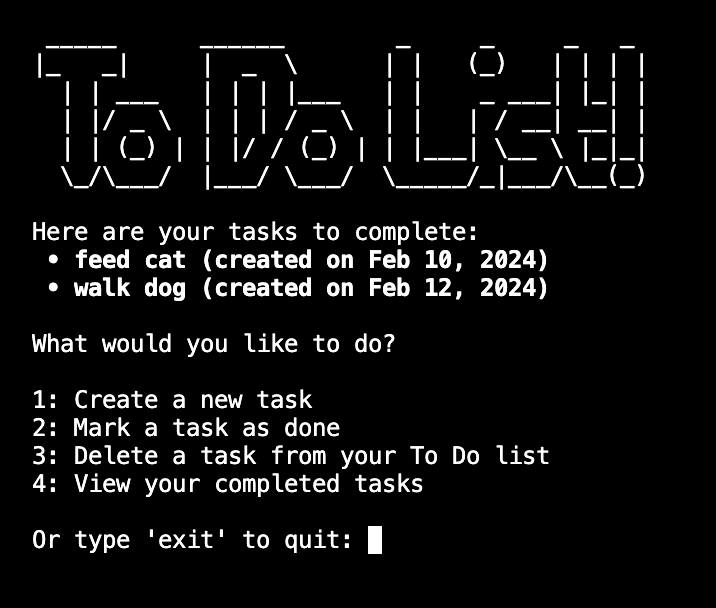
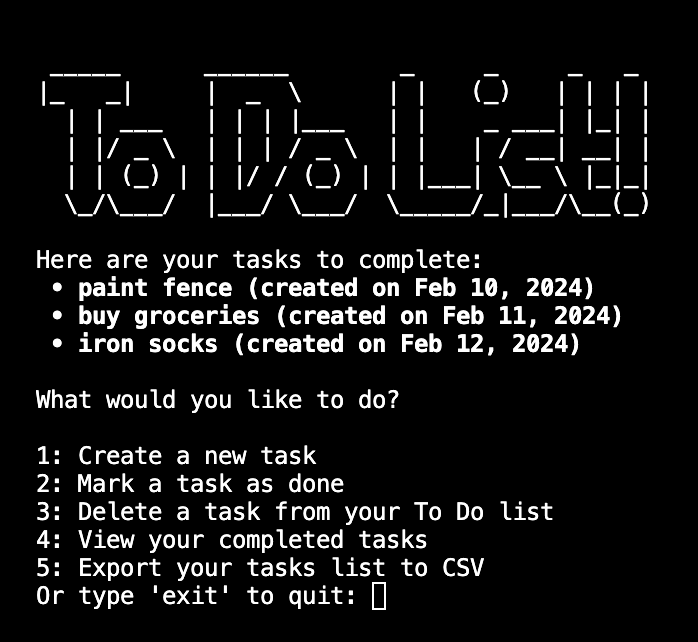
Docs: Update Features section of README

Changed region(s): [[0.0301, 0.0625, 0.9327, 0.9688], [0.692, 0.7188, 0.8123, 0.8125], [0.7822, 0.0625, 0.8123, 0.0938]]

diff --git a/README.md b/README.md
@@ -143,7 +143,9 @@ If they enter an invalid index or task name, they are informed that their entere
 
 Once a valid index number or task name has been received, the task is removed from the To Do list and moved to the list of completed tasks, with a record of the date that the task was marked as complete.
 
-![Completed task screenshot 2](documentation/screencaps/task_doneCompletedScreencap.png)
+![Completed task screenshot 2](documentation/screencaps/task_doneIndexInProgress.png)
+
+![Completed task Screenshot 3](documentation/screencaps/task_doneNameInProgress.png)
 
 <a id=deleting_a_task></a>
 
@@ -151,17 +153,13 @@ Once a valid index number or task name has been received, the task is removed fr
 
 It is also possible to delete a task by entering `3` from the main menu. This option differs from marking a task as complete as it removes the task and all data related to it, in contrast to marking a task as done which preserves the title and moves it to the completed task list.
 
-![Deleting a task screenshot](documentation/screencaps/delete_taskOne.png)
-
 The user is prompted to enter a task's index number or its title.
 
-![Deleting a task screenshot](documentation/screencaps/delete_taskTwo.png)
+![Deleting a task screenshot](documentation/screencaps/delete_taskOneScreencap.png)
 
 A confirmation prompt is then displayed, asking the user to confirm by entering `YES` or `NO`. This prompt is case-sensitive to prevent the accidental deletion of unrecoverable data.
 
 Once deleted, app_load() is called and the updated Task list is displayed along with the main menu.
-
-![Deleting a task screenshot](documentation/screencaps/delete_taskThree.png)
 
 <a id=completed-tasks-list></a>
 
@@ -171,7 +169,9 @@ By entering `4` from the options menu, the user can view a log of their complete
 
 Three options are presented: `menu`, which takes the user back to the options menu, `clear`, to delete all data from this list, and `quit`, which calls the built-in Python `exit()` function and quits the app.
 
-![Completed tasks list screenshot](documentation/screencaps/done_tasks_listScreencap.png)
+![Completed tasks list screenshot](documentation/screencaps/task_doneIndexInProgress.png)
+
+![Completed tasks list screenshot](documentation/screencaps/task_doneNameInProgress.png)
 
 When `clear` is chosen, the user is asked to confirm their choice. This Yes/No option is case-sensitive to defend against the possibility of accidental deletion of unrecoverable data.
 
@@ -191,23 +191,15 @@ The export_data function uses try/except blocks to determine the method used to 
 
 The initial try block creates a file using the datetime.now() method (used to create a unique file name, allowing multiple files to be exported on the same day). This file is written using the csv.writer() method to write the csv file, and os.path to save it to the user's downloads folder.
 
-![Screenshot of csv file in downloads folder]()
+![Screenshot of csv file in downloads folder](documentation/screencaps/export_dataScreencap.png)
 
-![Screenshot of csv file contents]()
-
-#### Use pyperclip module to copy csv data to clipboard
-
-If a FileNotFoundError is raised, indicating that the user's download's folder is not in the expected directory, pyperclip is used to copy the csv data to the user's clipboard. **The user is asked to confirm this, in order to prevent the accidental deletion of data from the clipboard without the user's knowedge** (Not yet implemented - WIP).
-
-A message is displayed to the user explaining that a FileNotFoundError was raised and so this method was used. 
+![Screenshot of csv file contents](documentation/screencaps/exportedDataFileScreencap.png)
 
 #### Print data in terminal for user to manually copy/paste
 
-Finally, if Pyperclip is unable to copy to the local clipboard (for example, the user is running the app via the Heroku deployment, rather than locally).
+If a FileNotFoundError occurs (i.e. the app is being run via a Heroku deployment), the data is printed into the terminal for the user to manually copy and paste as needed.
 
-The user is told that pyperclip is unable to copy their data to the clipboard, and that their data will be printed in the terminal in csv format for manual copy/pasting.
-
-![Screenshot showing pyperclip error message and printing of csv data in the terminal]()
+![Screenshot of csv data in Heroku deployment](documentation/screencaps/exportingDataHerokuScreencap.png)
 
 <a id=data-model></a>
 
